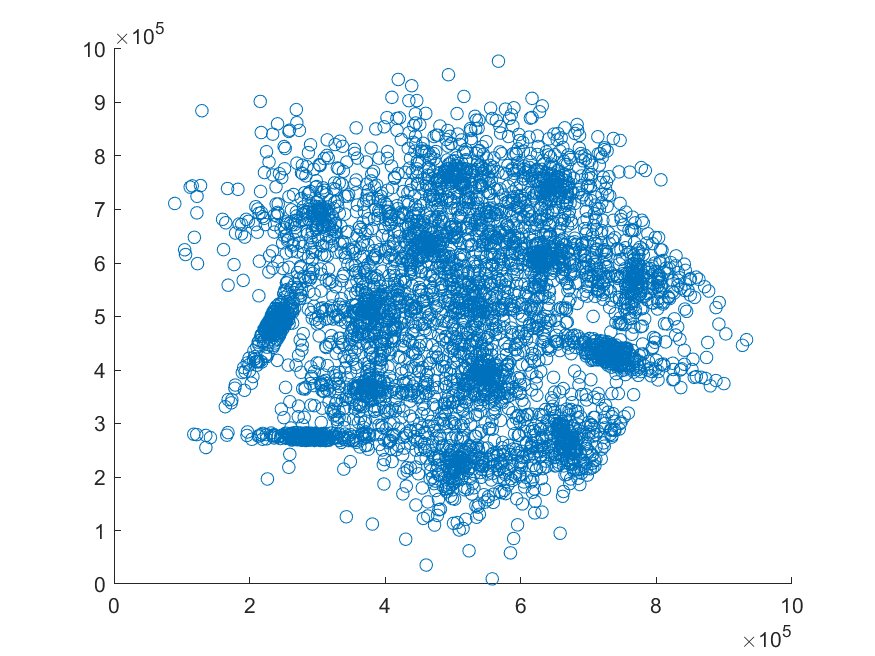
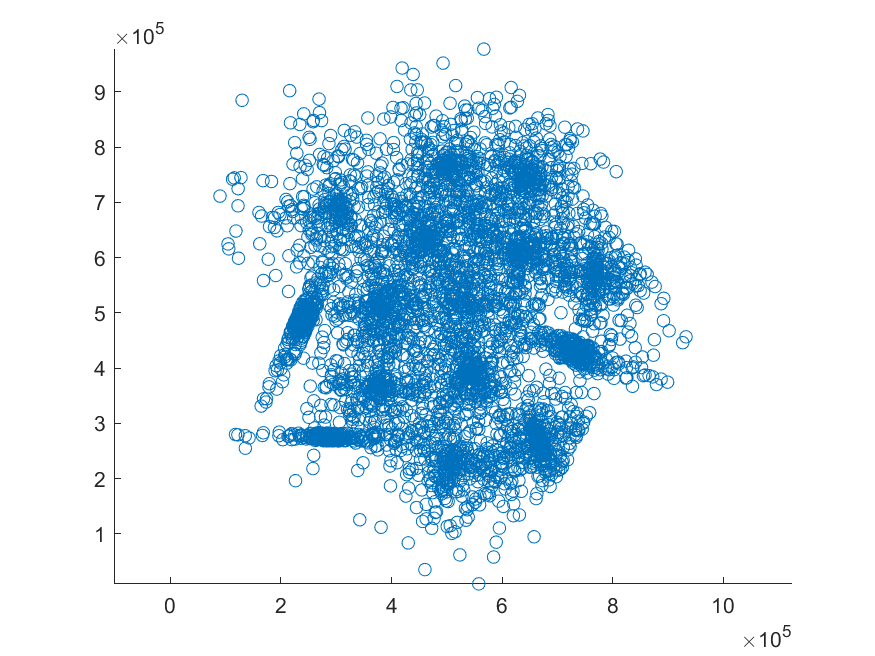
plot figs

diff --git a/clusterDv_3.m b/clusterDv_3.m
@@ -3,8 +3,8 @@ clc;clear;close all;
 
 %%%%%%%%%%%%%%%%%%%%%%%% read me %%%%%%%%%%%%%%%%%%%%%%%%%%%%%%%%%%%%%%%%%%
 %%%%%%%%%%%%%%%%%%%%%%%%%%%%%%%%%%%%%%%%%%%%%%%%%%%%%%%%%%%%%%%%%%%%%%%%%%%
-% this package uses the Kernel density Estimate Matlab-based toolbox developed by 
-% Alexander Ihler (http://www.ics.uci.edu/~ihler/code/kde.html). 
+% this package uses the Kernel density Estimate Matlab-based toolbox developed by
+% Alexander Ihler (http://www.ics.uci.edu/~ihler/code/kde.html).
 
 %%
 %%%%%%%%%%%%%% what this does %%%%%%%%%%%%%%%%%%%%%%%%%%%%%%%%%%%%%%%%%%%%%
@@ -17,65 +17,51 @@ clc;clear;close all;
 %%%%%%%%%%%%%%%%%%%%%%%%%%%%%%%%%%%%%%%%%%%%%%%%%%%%%%%%%%%%%%%%%%%%%%%%%%
 %Pick main file with data set.
 %mat file with variable "data" inside, rows are data points and columns n dimensions of the data
-[FileName,PathName] =  uigetfile('*.*');
+% [FileName,PathName] =  uigetfile('*.*');
 
-load(strcat(PathName,FileName));
+% chose the folder of files
+path = uigetdir;
 
+% if at least 1 file is choosed
+if path ~= 0
 
-%%
-%%%%%%%%%%%%%%%%%% clusterDv inputs %%%%%%%%%%%%%%%%%%%%%%%%%%%%%%%%%%%%%%%
-%%%%%%%%%%%%%%%%%%%%%%%%%%%%%%%%%%%%%%%%%%%%%%%%%%%%%%%%%%%%%%%%%%%%%%%%%%%
+    % get full paths of files
+    list = get_all_files_of_a_certain_type_in_a_rootpath(path,'*.mat');
 
+    % choose files
+    [indx,tf] = listdlg('ListString',list,'ListSize',[800,600],'Name','Chose files to convert');
 
-%Select method to calculate number of clusters
-clustNumDecision = 'SI_jump';%it may be: 'SI_jump','onion','simplex', 'all_clusters','square', or 'dendrogram'. For Beep20 data set you should select 'simplex' 
+    % if at least 1 file is choosed
+    if tf==1
+        for ii = indx
 
-%Select density estimation method
-densityType = 'local';%type of density estimation: select 'local' or 'localp' (normalise dimensions)
+            % load
+            full_path = list{ii};
+            load(full_path);
 
-%Select method to estimate the density lines.
-lineDensityMethod = 'fast';%line density method - can be 'slow', 'medium', 'fast, 'slowPar', 'mediumPar', 'fastPar' - "par" methods uses Matlab parallel toolbox
+            % cluster
+            clusterDv_3_function(data);
 
-%parameter that defines the number of edges uses in the 'medium' or 'mediumPar' 
-numextra = sqrt(length(data));%it does not do anything if another line density method is selected
+            % save
+            for i = 1:3
 
-%parameter that defines the number of divisions used to calculate line density lines 
-nsamps = 30;%should be large enough - 10 is often enough. We used 30 for Beep20, exclamation mark 1 and exclamation mark 2 data sets
+                % call gcf
+                figure(i)
 
-%select number of repetitions to do reference distribution.
-multirep = 100;%if zero it will not do any reference distribution. If a decision method that does not use reference distribution it becomes 0.
+                % axis equal
+                if i == 3
+                    axis equal;
+                end
 
-%factor used to scale bandwidths used to calculate densities
-scalingFactor = 1;%it should be 1, no dendity scalling applied. 
+                % save
+                save_full_path = strrep(full_path,'.mat',sprintf('_figure-%d.png',i));
+                saveas(gcf,save_full_path);
 
-%method used to assign data points
-pointAssignmentMethod = 'distance';
+            end
 
-%number of clusters used to calculate dendrogram.
-maxNumbOfClusterCenters = 20;%Calculating the dendrogram is computationally costly. The user should a select a number larger than the number of clusters that exist in the data set.
+            close all;
 
-%kde density object
-kdedens = [];% in case kde object was already calculated insert it here. If left empty clusterDvFunction will calculate it again.
+        end
+    end
 
-%Show plots with clustering result
-makeplot = 1;%clustering solution, dendrogram, and SI jump in the case this method is selected
-
-%%
-%%%%%%%%%%%%%%%%%%%%% Run clusterDv %%%%%%%%%%%%%%%%%%%%%%%%%%%%%%%%%%%%%%%
-%%%%%%%%%%%%%%%%%%%%%%%%%%%%%%%%%%%%%%%%%%%%%%%%%%%%%%%%%%%%%%%%%%%%%%%%%%%
-
-[clusterAssignment,indChoosenClusterCenters,clusterCentersSortedIdx,rho,SImeasure,SImeasureRandThreshold,tree] = clusterDvFunction...
-    (data,densityType,lineDensityMethod,numextra,nsamps,scalingFactor,pointAssignmentMethod,maxNumbOfClusterCenters,clustNumDecision,multirep,kdedens,makeplot);
-
-
-%%
-%%%%%%%%%%%%%%%%%%% outputs %%%%%%%%%%%%%%%%%%%%%%%%%%%%%%%%%%%%%%%%%%%%%%%
-%%%%%%%%%%%%%%%%%%%%%%%%%%%%%%%%%%%%%%%%%%%%%%%%%%%%%%%%%%%%%%%%%%%%%%%%%%%
-
-%clusterAssignment - vector with cluster assignments. Each number is a different cluster.	
-%indChoosenClusterCenters - index of cluster centers selected by clusterDv.
-%clusterCentersSortedIdx  - index of all points that have SI larger than 0
-%rho - point density.
-%SImeasure - separability index for each point.
-%SImeasureRandThreshold - threshold defined by method that selects cluster centers.
-%trer - SI dendrogram.
+end

diff --git a/clusterDv_3_function.m b/clusterDv_3_function.m
@@ -1,0 +1,61 @@
+function clusterDv_3_function(data)
+
+%%
+%%%%%%%%%%%%%%%%%% clusterDv inputs %%%%%%%%%%%%%%%%%%%%%%%%%%%%%%%%%%%%%%%
+%%%%%%%%%%%%%%%%%%%%%%%%%%%%%%%%%%%%%%%%%%%%%%%%%%%%%%%%%%%%%%%%%%%%%%%%%%%
+
+
+%Select method to calculate number of clusters
+clustNumDecision = 'SI_jump';%it may be: 'SI_jump','onion','simplex', 'all_clusters','square', or 'dendrogram'. For Beep20 data set you should select 'simplex'
+
+%Select density estimation method
+densityType = 'local';%type of density estimation: select 'local' or 'localp' (normalise dimensions)
+
+%Select method to estimate the density lines.
+lineDensityMethod = 'slow';%line density method - can be 'slow', 'medium', 'fast, 'slowPar', 'mediumPar', 'fastPar' - "par" methods uses Matlab parallel toolbox
+
+%parameter that defines the number of edges uses in the 'medium' or 'mediumPar'
+numextra = sqrt(length(data));%it does not do anything if another line density method is selected
+
+%parameter that defines the number of divisions used to calculate line density lines
+nsamps = 30;%should be large enough - 10 is often enough. We used 30 for Beep20, exclamation mark 1 and exclamation mark 2 data sets
+
+%select number of repetitions to do reference distribution.
+multirep = 100;%if zero it will not do any reference distribution. If a decision method that does not use reference distribution it becomes 0.
+
+%factor used to scale bandwidths used to calculate densities
+scalingFactor = 1;%it should be 1, no dendity scalling applied.
+
+%method used to assign data points
+pointAssignmentMethod = 'distance';
+
+%number of clusters used to calculate dendrogram.
+maxNumbOfClusterCenters = 20;%Calculating the dendrogram is computationally costly. The user should a select a number larger than the number of clusters that exist in the data set.
+
+%kde density object
+kdedens = [];% in case kde object was already calculated insert it here. If left empty clusterDvFunction will calculate it again.
+
+%Show plots with clustering result
+makeplot = 1;%clustering solution, dendrogram, and SI jump in the case this method is selected
+
+%%
+%%%%%%%%%%%%%%%%%%%%% Run clusterDv %%%%%%%%%%%%%%%%%%%%%%%%%%%%%%%%%%%%%%%
+%%%%%%%%%%%%%%%%%%%%%%%%%%%%%%%%%%%%%%%%%%%%%%%%%%%%%%%%%%%%%%%%%%%%%%%%%%%
+
+[clusterAssignment,indChoosenClusterCenters,clusterCentersSortedIdx,rho,SImeasure,SImeasureRandThreshold,tree] = clusterDvFunction...
+    (data,densityType,lineDensityMethod,numextra,nsamps,scalingFactor,pointAssignmentMethod,maxNumbOfClusterCenters,clustNumDecision,multirep,kdedens,makeplot);
+
+
+%%
+%%%%%%%%%%%%%%%%%%% outputs %%%%%%%%%%%%%%%%%%%%%%%%%%%%%%%%%%%%%%%%%%%%%%%
+%%%%%%%%%%%%%%%%%%%%%%%%%%%%%%%%%%%%%%%%%%%%%%%%%%%%%%%%%%%%%%%%%%%%%%%%%%%
+
+%clusterAssignment - vector with cluster assignments. Each number is a different cluster.
+%indChoosenClusterCenters - index of cluster centers selected by clusterDv.
+%clusterCentersSortedIdx  - index of all points that have SI larger than 0
+%rho - point density.
+%SImeasure - separability index for each point.
+%SImeasureRandThreshold - threshold defined by method that selects cluster centers.
+%trer - SI dendrogram.
+
+end

diff --git a/visualize.m b/visualize.m
@@ -26,6 +26,7 @@ if path ~= 0
             % visulize
             figure;
             scatter(data(:,1),data(:,2));
+            axis equal;
 
             % save
             save_full_path = strrep(full_path,'mat','png');
